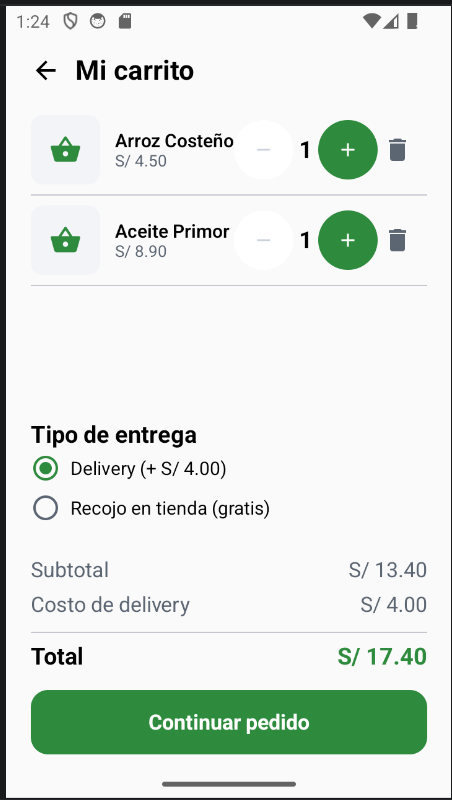
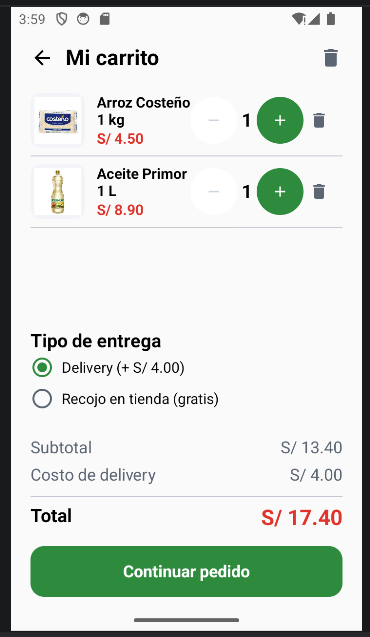
README con capturas de la mejora con IA

diff --git a/semana6/MiBodega/README.md b/semana6/MiBodega/README.md
@@ -1,6 +1,5 @@
 
-# Mi Bodega – App Cliente
-
+# Mi Bodega – Fase 2 (Mejora con IA)
 
 ## Cómo probarla
 
@@ -9,10 +8,69 @@
 
 ## Resultado
 
-![Inicio](Imagenes/1.png) | ![Carrito](Imagenes/2.png) | ![Favoritos](Imagenes/3.png)
+![1. Bienvenida](Imagenes/1.png)
+![2. Crear cuenta](Imagenes/2.png)
+![3. Inicio con buscador](Imagenes/3.png)
+![4. Detalle del producto](Imagenes/4.png)
+![5. Carrito](Imagenes/5.png)
+![6. Datos de entrega y pago](Imagenes/6.png)
+![7. Pedido confirmado](Imagenes/7.png)
 
 
-![Datos de entrega](Imagenes/4.png) | ![Pedidos](Imagenes/5.png) | ![Perfil](Imagenes/6.png)
+
+
+
+
+## Prompt utilizado 
+Estás integrado en Android Studio y tienes acceso a mi proyecto MiBodega (Kotlin, Jetpack Compose, Material 3, Navigation Compose 2.8.0, package com.tecsup.mibodega). Modifica directamente los archivos del proyecto. Adjunto la imagen de referencia "Figura 2: App Cliente - Comprar productos y hacer pedidos" (7 pantallas). Quiero que la app quede VISUALMENTE IGUAL a esa imagen, con imágenes reales de productos, sin romper la lógica que ya funciona.
+
+El proyecto ya tiene una primera versión del rediseño y casi no se nota la diferencia con la imagen. Revisa cada pantalla contra la Figura 2 y corrige hasta que se vea igual. Quiero cambios visibles.
+
+ESTRUCTURA ACTUAL
+- MainActivity.kt: modo oscuro con rememberSaveable y BodegaTheme(darkTheme).
+- ui/cliente/ClienteApp.kt: NavHost con animaciones y estado compartido (carrito, favoritos, pedidos, tipoEntrega) con state hoisting. Rutas: bienvenida, registro, login, inicio, favoritos, pedidos, perfil, detalle/{productoId}, carrito, entrega, confirmacion.
+- ui/cliente/modelo: Producto, ItemCarrito, Pedido, TipoEntrega (DELIVERY S/ 4.00, RECOJO S/ 0.00), MetodoPago, DatosFake.kt.
+- ui/cliente/screens/<nombre>/<Nombre>Screen.kt: bienvenida, registro, login, inicio, detalle, carrito, entrega, confirmacion, favoritos, pedidos, perfil.
+- ui/componentes: BotonPrimario, BotonSecundario, CampoTexto, ProductoCard, SelectorCantidad, BarraNavegacion (INICIO, FAVORITOS, PEDIDOS, PERFIL).
+- ui/theme: Color.kt (VerdeBodega, RojoPrecio), Theme.kt, Type.kt.
+
+IMÁGENES (YA ESTÁN en app/src/main/res/drawable, no hace falta crearlas)
+arroz_costeno.jpg, aceite_primor.jpg, leche_gloria.jpg, galleta_oreo.jpg, coca_cola.jpg (fotos de los productos) e ilustracion_bodega.jpg (logo de Bienvenida). Úsalas con painterResource(R.drawable.nombre).
+
+DATOS (igual que la figura)
+- Producto: agrega @DrawableRes val imagen: Int y val presentacion: String.
+- Arroz Costeño, "1 kg", S/ 4.50, Abarrotes, R.drawable.arroz_costeno
+- Aceite Primor, "1 L", S/ 8.90, Abarrotes, R.drawable.aceite_primor
+- Leche Gloria, "1 L", S/ 5.20, Abarrotes, R.drawable.leche_gloria
+- Galleta Oreo, "126 g", S/ 3.50, Snacks, R.drawable.galleta_oreo
+- Coca-Cola Original, "1.5 L", S/ 6.50, Bebidas, R.drawable.coca_cola, descripción "Bebida gaseosa sabor cola. Ideal para compartir en familia."
+
+REGLAS OBLIGATORIAS
+1. No rompas lo que funciona: login con usuario "cliente" y contraseña "1234" con mensaje de error; campos vacíos marcados en rojo (Registro y Entrega); badge del carrito; mensaje de carrito vacío; AlertDialog al eliminar un producto y al vaciar el carrito; RadioButton Delivery/Recojo que cambia el total; Mis pedidos; Favoritos con corazón; ordenar por precio; modo oscuro con Switch en Perfil; animaciones del NavHost; popUpTo al confirmar.
+2. La barra inferior conserva sus 4 destinos (Inicio, Favoritos, Pedidos, Perfil), con el ítem activo en verde.
+3. Mantén el state hoisting: las pantallas no guardan carrito, favoritos ni pedidos; todo llega por parámetros y lambdas desde ClienteApp.
+4. Usa solo colores del tema (MaterialTheme.colorScheme.* y Color.kt) para que el modo oscuro siga funcionando. Nada de Color.White ni Color.Black fijos en fondos o textos.
+5. No agregues dependencias nuevas (usa painterResource, sin Coil). Usa Material Icons.
+6. Entrégame cada archivo modificado COMPLETO con su ruta, package e imports. Al final lista los archivos cambiados y qué debo probar.
+
+PARTE A - BUSCADOR EN TIEMPO REAL (mejora obligatoria)
+- En InicioScreen, el campo "Buscar productos..." filtra la lista mientras escribo y se combina con el chip de categoría y con el orden por precio. Los filtros funcionan juntos, ninguno reemplaza a otro.
+- Ignora mayúsculas, tildes y espacios al inicio o al final.
+- Botón "X" para limpiar, visible solo si hay texto.
+- Sin resultados: estado vacío con ícono y el texto "No encontramos productos".
+- Explícame en 3 líneas cómo combinaste los filtros.
+
+PARTE B - DISEÑO IGUAL A LA FIGURA 2 (pantalla por pantalla)
+1. Bienvenida: ilustración de la bodega grande arriba, título "Mi Bodega" ("Mi" oscuro, "Bodega" verde y grande), subtítulo "Tus productos de siempre en la puerta de tu casa", botón verde grande con ícono a la izquierda y dos líneas de texto ("Registrarme" / "con mi teléfono"), botón blanco con borde "Iniciar sesión", y abajo "Al continuar aceptas nuestros" + "Términos y Condiciones" en azul.
+2. Crear cuenta: flecha atrás y título "Crear cuenta"; subtítulo "Completa tus datos para continuar"; avatar circular celeste con ícono de persona y una insignia azul con "+" abajo a la derecha; cuatro campos con la etiqueta arriba (Nombre completo, Teléfono, Dirección de entrega, Referencia) y bordes redondeados finos; botón verde "Crear cuenta" de ancho completo. Login usa el mismo estilo.
+3. Inicio: barra superior con "Mi Bodega" (Mi oscuro, Bodega verde) a la izquierda y carrito con badge rojo a la derecha; buscador con lupa; cuatro fichas de categoría (Todos, Bebidas, Abarrotes, Snacks) con ícono arriba y texto abajo, la seleccionada con fondo verde e ícono blanco; título "Productos destacados" con el botón de orden por precio a la derecha; cuadrícula de 2 columnas de ProductoCard: foto del producto arriba (Image con painterResource, ContentScale.Fit, dentro de un recuadro redondeado claro y con el corazón de favorito en la esquina), nombre en negrita, presentación en gris, precio en rojo (RojoPrecio) en negrita y botón circular verde "+" a la derecha.
+4. Detalle: flecha atrás arriba a la izquierda y corazón arriba a la derecha; foto grande del producto centrada (ocupa gran parte de la parte superior, como la botella de la figura); nombre grande en negrita, presentación en gris, precio grande en rojo y negrita, descripción en gris; selector de cantidad en recuadro redondeado con "-" gris, número y "+" verde relleno; botón verde de ancho completo con ícono de carrito y "Agregar al carrito".
+5. Carrito: título "Mi carrito" a la izquierda y basurero arriba a la derecha que vacía el carrito con AlertDialog; cada fila con miniatura del producto a la izquierda (foto real), nombre con presentación (ej. "Coca-Cola 1.5 L"), precio en rojo, selector "- 1 +" debajo y basurero pequeño a la derecha; mantén los RadioButton de entrega; resumen con Subtotal, Costo de delivery, línea divisoria y Total en negrita; botón verde "Continuar pedido".
+6. Datos de entrega: flecha atrás y título "Datos de entrega"; campos Nombre, Teléfono, Dirección y Referencia con etiqueta arriba y validación en rojo; sección "Método de pago" con tres RadioButton: "Efectivo al entregar" (ícono Payments, seleccionado por defecto), "Yape" (recuadro morado con ícono) y "Plin" (recuadro celeste con ícono); botón verde "Confirmar pedido". onConfirmar entrega (nombre, telefono, direccion, referencia, metodoPago); Pedido guarda esos datos; la numeración de pedidos empieza en 1001.
+7. Confirmación: círculo verde grande con check blanco y rayitas de confeti de colores alrededor dibujadas con Canvas; título "¡Pedido realizado!" en verde y negrita; subtítulo "Tu pedido está siendo preparado y será entregado pronto."; tarjeta con "Pedido #NÚMERO" en negrita, "Total" en rojo, "Dirección" con la dirección y la referencia entre paréntesis y el método de pago; botón con borde verde "Ver estado del pedido" (lleva a Pedidos) y botón con borde "Volver al inicio". Respeta el popUpTo actual: al confirmar y al presionar atrás se vuelve a Inicio, no al formulario.
+8. Favoritos, Pedidos y Perfil: mismo estilo (tarjetas con esquinas redondeadas, títulos en negrita, verde como color principal), con la miniatura del producto en Favoritos y Pedidos, y el método de pago de cada pedido en Mis pedidos.
+
+Compara cada pantalla con la figura en tamaños de imagen, espaciados, bordes redondeados, tamaños de texto, colores, tamaño y posición de íconos y botones, y corrige las diferencias. Todo debe verse bien en modo claro y oscuro.
 
 
 
